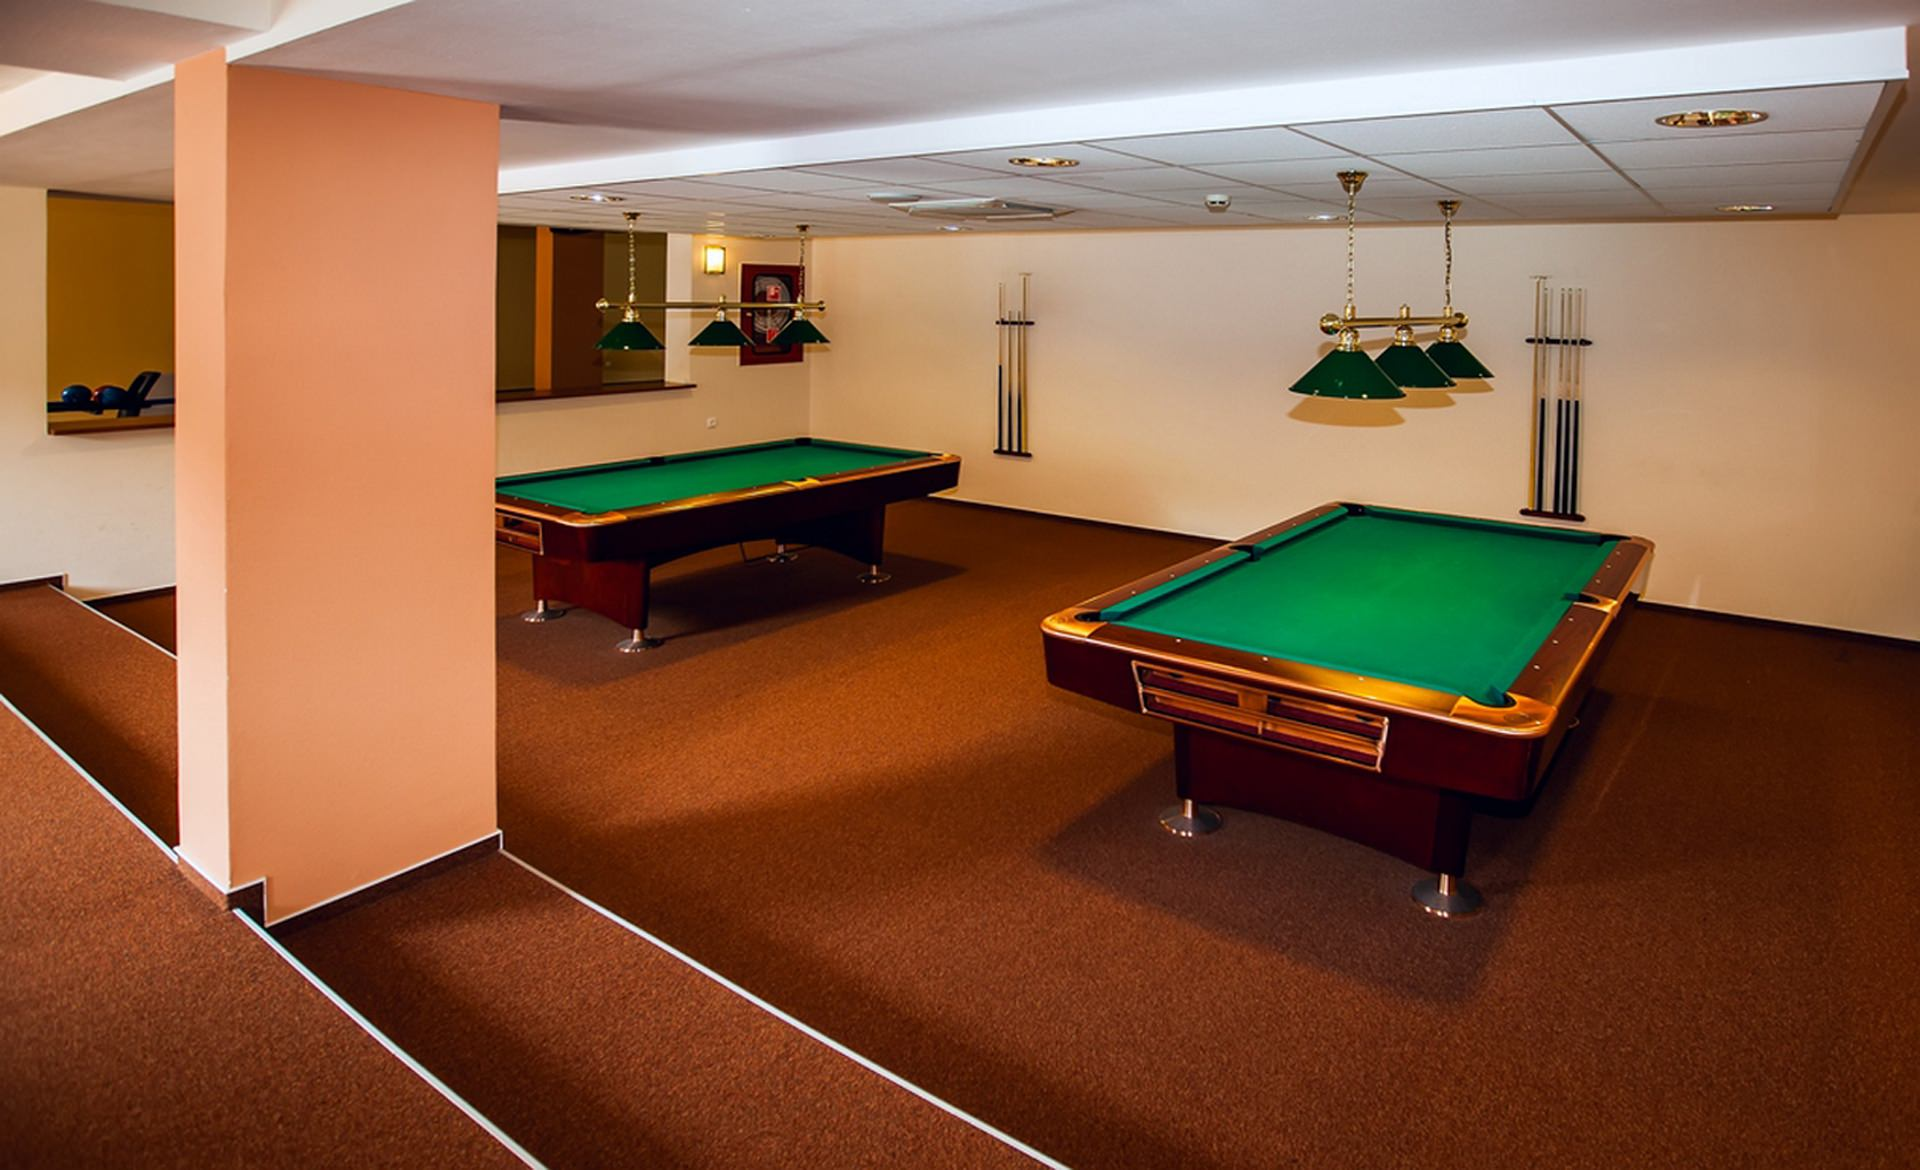
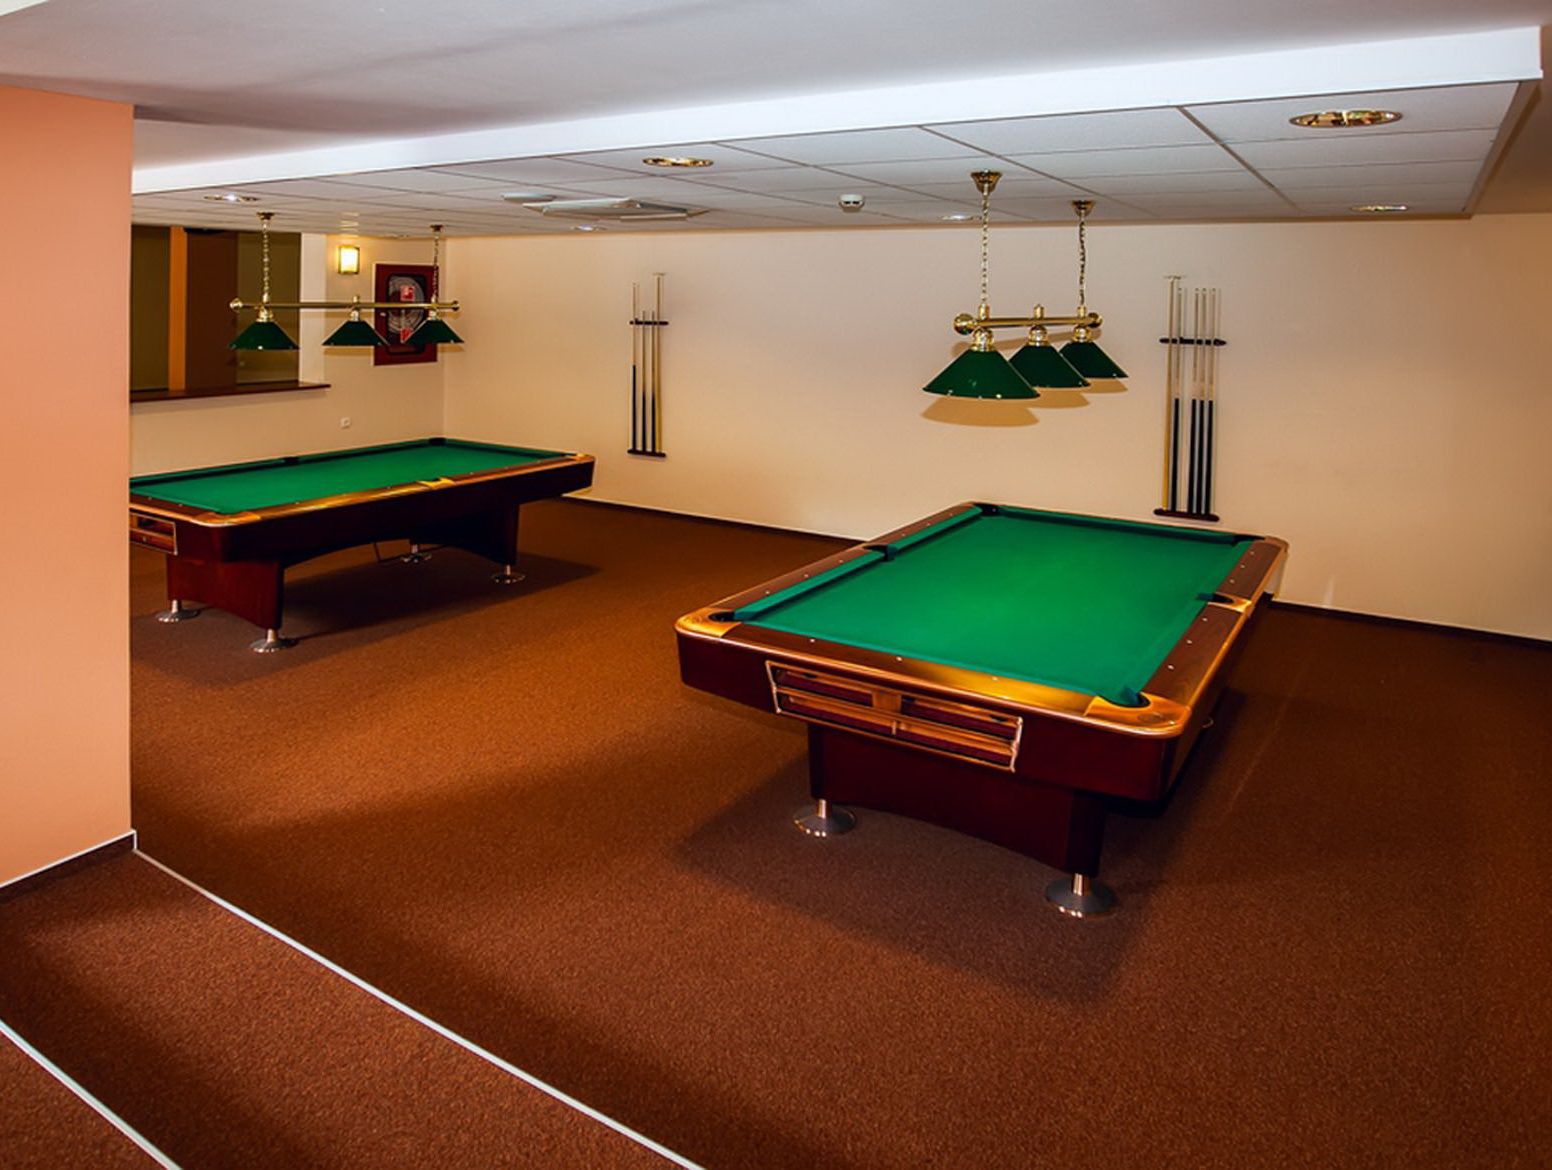
bővítés

diff --git a/index.html b/index.html
@@ -203,7 +203,7 @@
               <li data-filter="*" class="filter-active">Mind</li>
               <li data-filter=".filter-app">Szoba</li>
               <li data-filter=".filter-card">Wellness</li>
-              <li data-filter=".filter-web">Web</li>
+              <li data-filter=".filter-web">Szórakozás</li>
             </ul>
           </div>
         </div>
@@ -214,9 +214,9 @@
             <div class="portfolio-wrap">
               <figure>
                 <img src="assets/img/szoba.jpg" class="img-fluid" alt="">
-                <a href="assets/img/szoba.jpg" data-gallery="portfolioGallery"
-                  class="link-preview portfolio-lightbox" title="Kétágyas szoba erkéllyel"><i class="bx bx-plus"></i></a>
-                    class="bx bx-link"></i></a>
+                <a href="assets/img/szoba.jpg" data-gallery="portfolioGallery" class="link-preview portfolio-lightbox"
+                  title="Kétágyas szoba erkéllyel"><i class="bx bx-plus"></i></a>
+                class="bx bx-link"></i></a>
               </figure>
 
               <div class="portfolio-info">
@@ -228,16 +228,13 @@
           <div class="col-lg-4 col-md-6 portfolio-item filter-web wow fadeInUp" data-wow-delay="0.1s">
             <div class="portfolio-wrap">
               <figure>
-                <img src="assets/img/portfolio/portfolio-2.jpg" class="img-fluid" alt="">
-                <a href="assets/img/portfolio/portfolio-2.jpg" class="link-preview portfolio-lightbox"
-                  data-gallery="portfolioGallery" title="Preview"><i class="bx bx-plus"></i></a>
-                <a href="portfolio-details.html" class="link-details" title="More Details"><i
-                    class="bx bx-link"></i></a>
+                <img src="assets/img/bowling.jpg" class="img-fluid" alt="">
+                <a href="assets/img/bowling.jpg" class="link-preview portfolio-lightbox" data-gallery="portfolioGallery"
+                  title="Bowling"><i class="bx bx-plus"></i></a>
               </figure>
 
               <div class="portfolio-info">
-                <h4><a href="portfolio-details.html">Web 3</a></h4>
-                <p>Web</p>
+                <h4>Bowling</h4>
               </div>
             </div>
           </div>
@@ -248,7 +245,7 @@
                 <img src="assets/img/furdoszoba.jpg" class="img-fluid" alt="">
                 <a href="assets/img/furdoszoba.jpg" class="link-preview portfolio-lightbox"
                   data-gallery="portfolioGallery" title="Fürdőszoba"><i class="bx bx-plus"></i></a>
-                    class="bx bx-link"></i></a>
+                class="bx bx-link"></i></a>
               </figure>
 
               <div class="portfolio-info">
@@ -266,8 +263,7 @@
               </figure>
 
               <div class="portfolio-info">
-                <h4><a href="portfolio-details.html">Medence</a></h4>
-                <p>Card</p>
+                <h4>Medence</h4>
               </div>
             </div>
           </div>
@@ -275,16 +271,13 @@
           <div class="col-lg-4 col-md-6 portfolio-item filter-web wow fadeInUp" data-wow-delay="0.1s">
             <div class="portfolio-wrap">
               <figure>
-                <img src="assets/img/portfolio/portfolio-5.jpg" class="img-fluid" alt="">
-                <a href="assets/img/portfolio/portfolio-5.jpg" class="link-preview portfolio-lightbox"
-                  data-gallery="portfolioGallery" title="Preview"><i class="bx bx-plus"></i></a>
-                <a href="portfolio-details.html" class="link-details" title="More Details"><i
-                    class="bx bx-link"></i></a>
+                <img src="assets/img/billiard.jpg" class="img-fluid" alt="">
+                <a href="assets/img/billiard.jpg" class="link-preview portfolio-lightbox"
+                  data-gallery="portfolioGallery" title="Biliárd"><i class="bx bx-plus"></i></a>
               </figure>
 
               <div class="portfolio-info">
-                <h4><a href="portfolio-details.html">Web 2</a></h4>
-                <p>Web</p>
+                <h4>Biliárd</h4>
               </div>
             </div>
           </div>
@@ -293,8 +286,8 @@
             <div class="portfolio-wrap">
               <figure>
                 <img src="assets/img/szoba2.jpg" class="img-fluid" alt="">
-                <a href="assets/img/szoba2.jpg" class="link-preview portfolio-lightbox"
-                  data-gallery="portfolioGallery" title="Szoba"><i class="bx bx-plus"></i></a>
+                <a href="assets/img/szoba2.jpg" class="link-preview portfolio-lightbox" data-gallery="portfolioGallery"
+                  title="Szoba"><i class="bx bx-plus"></i></a>
               </figure>
 
               <div class="portfolio-info">
@@ -307,8 +300,8 @@
             <div class="portfolio-wrap">
               <figure>
                 <img src="assets/img/szauna.jpg" class="img-fluid" alt="">
-                <a href="assets/img/szauna.jpg" class="link-preview portfolio-lightbox"
-                  data-gallery="portfolioGallery" title="Szauna"><i class="bx bx-plus"></i></a>
+                <a href="assets/img/szauna.jpg" class="link-preview portfolio-lightbox" data-gallery="portfolioGallery"
+                  title="Szauna"><i class="bx bx-plus"></i></a>
               </figure>
 
               <div class="portfolio-info">
@@ -321,8 +314,8 @@
             <div class="portfolio-wrap">
               <figure>
                 <img src="assets/img/uszoda.jpg" class="img-fluid" alt="">
-                <a href="assets/img/uszoda.jpg" class="link-preview portfolio-lightbox"
-                  data-gallery="portfolioGallery" title="Uszoda"><i class="bx bx-plus"></i></a>
+                <a href="assets/img/uszoda.jpg" class="link-preview portfolio-lightbox" data-gallery="portfolioGallery"
+                  title="Uszoda"><i class="bx bx-plus"></i></a>
               </figure>
 
               <div class="portfolio-info">
@@ -334,16 +327,13 @@
           <div class="col-lg-4 col-md-6 portfolio-item filter-web wow fadeInUp" data-wow-delay="0.2s">
             <div class="portfolio-wrap">
               <figure>
-                <img src="assets/img/portfolio/portfolio-9.jpg" class="img-fluid" alt="">
-                <a href="assets/img/portfolio/portfolio-9.jpg" class="link-preview portfolio-lightbox"
-                  data-gallery="portfolioGallery" title="Preview"><i class="bx bx-plus"></i></a>
-                <a href="portfolio-details.html" class="link-details" title="More Details"><i
-                    class="bx bx-link"></i></a>
+                <img src="assets/img/csocso.jpg" class="img-fluid" alt="">
+                <a href="assets/img/csocso.jpg" class="link-preview portfolio-lightbox" data-gallery="portfolioGallery"
+                  title="Csocsó & Léghoki"><i class="bx bx-plus"></i></a>
               </figure>
 
               <div class="portfolio-info">
-                <h4><a href="portfolio-details.html">Web 1</a></h4>
-                <p>Web</p>
+                <h4>Csocsó & Léghoki</h4>
               </div>
             </div>
           </div>
@@ -358,8 +348,8 @@
       <div class="container">
 
         <div class="section-title">
-          <h2>Testimonials</h2>
-          <p>Necessitatibus eius consequatur ex aliquid fuga eum quidem</p>
+          <h2>Programok</h2>
+          <p>Ha megéheznénk, vagy másik fürdőt is kipróbálnánk...</p>
         </div>
 
         <div class="testimonials-slider swiper" data-aos="fade-up" data-aos-delay="100">
@@ -369,13 +359,14 @@
               <div class="testimonial-item">
                 <p>
                   <i class="bx bxs-quote-alt-left quote-icon-left"></i>
-                  Proin iaculis purus consequat sem cure digni ssim donec porttitora entum suscipit rhoncus. Accusantium
-                  quam, ultricies eget id, aliquam eget nibh et. Maecen aliquam, risus at semper.
+                  Üdvözöljük az egri Expressz - Aranysíp Étterem honlapján. Az EXPRESSZ - Önkiszolgáló - Étteremben,
+                  háromféle kedvezményes napi menü ajánlattal, kedvező árakkal várjuk kedves régi és leendő
+                  vendégeinket. Csoportok étkeztetését is vállaljuk. Napi és heti aktuális menü ajánlatunkat <a href="https://expresszetterem.freewb.hu/menu/" target="_blank">IDE
+                  KATTINTVA</a> tekinthetik meg.
                   <i class="bx bxs-quote-alt-right quote-icon-right"></i>
                 </p>
-                <img src="assets/img/testimonials/testimonials-1.jpg" class="testimonial-img" alt="">
-                <h3>Saul Goodman</h3>
-                <h4>Ceo &amp; Founder</h4>
+                <a href="https://expresszetterem.freewb.hu/" target="_blank"><img src="assets/img/express.jpg" class="testimonial-img" alt=""></a>
+                <h3>Express étterem</h3>
               </div>
             </div><!-- End testimonial item -->
 

diff --git a/assets/css/style.css b/assets/css/style.css
@@ -956,9 +956,9 @@ section {
 }
 
 .testimonials .testimonial-item .testimonial-img {
-  width: 90px;
+  width: 140px;
   border-radius: 50%;
-  border: 4px solid #fff;
+  border: 4px solid rgb(206, 62, 62);
   margin: 0 auto;
 }
 
